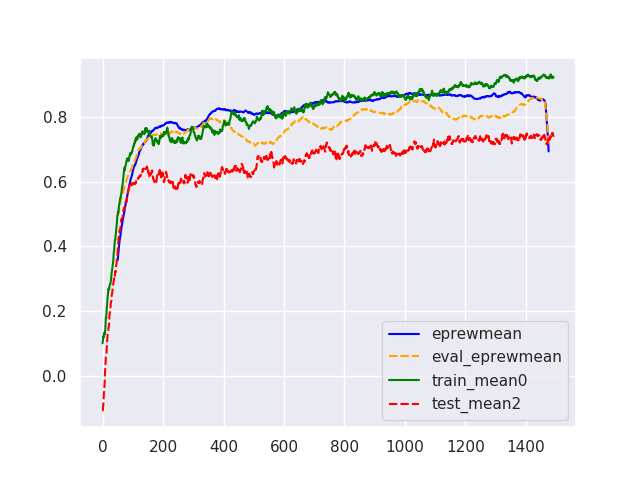
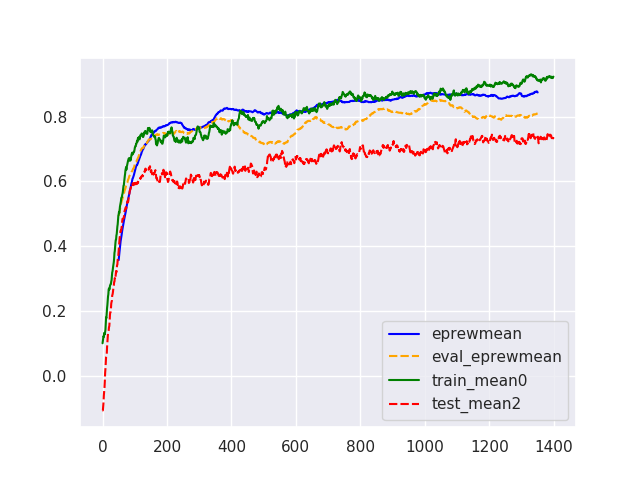
cartpole memes

diff --git a/train_procgen/train.py b/train_procgen/train.py
@@ -29,126 +29,113 @@ def main():
     ent_coef = .01
     gamma = .999
     lam = .95
-    # nsteps = (128 // 8)
     nminibatches = 8
     nsteps = (2048 // nminibatches)
     ppo_epochs = 3
     clip_range = .2
-    timesteps_per_proc = 5_000_000
+    timesteps_per_proc = 1_000_000
     use_vf_clipping = True
     dist_mode = "easy"
+    num_trials = 2
 
-    envs = ["plunder", "fruitbot", "chaser", "leaper", "bossfight", "maze", "coinrun", "caveflyer", "miner", "bigfish", "heist", "climber", "dodgeball", "jumper", "ninja", "starpilot"]
+    for i_trial in range(num_trials):
+        print("STARTING TRIAL", i_trial)
+        env_name = "visual-cartpole"
+        num_frames = 1
 
+        num_test_levels = 10
+        num_levels = 1
+        disc_coeff = 0.
+        LOG_DIR = "/home/josh/w_disc_again" + dist_mode + "/" + env_name + "_disc_coeff_" + str(disc_coeff) + "_num_levels_" + str(num_levels) + "_nsteps_" + str(nsteps) + "_num_frames_" + str(num_frames) + "_num_test_levels_" + str(num_test_levels)
+        LOG_DIR += "_trial_" + str(i_trial)
 
-    # sge = int(os.environ['SGE_TASK_ID'])
-    # if sge in [1, 6, 9, 10]:
-    #     sys.exit()
-    env_name = "visual-cartpole"
-    # env_name = "maze"
-    num_frames = 1
+        test_worker_interval = 0
 
-    # num_test_levels = sge * 10
-    num_test_levels = 1
-    num_levels = 1
-    # disc_coeff = None
-    disc_coeff = 0.1
-    if disc_coeff is None:
-        LOG_DIR = "/home/josh/" + env_name + "/" + env_name + "_disc_coeff_ramping2_num_levels_" + str(num_levels) + "_nsteps_" + str(nsteps)
-    else:
-        LOG_DIR = "/home/josh/w_disc_again" + dist_mode + "/" + env_name + "_disc_coeff_" + str(disc_coeff) + "_num_levels_" + str(num_levels) + "_nsteps_" + str(nsteps) + "_num_frames_" + str(num_frames) + "_num_test_levels_" + str(num_test_levels) + "_moreclipped"
+        comm = MPI.COMM_WORLD
+        rank = comm.Get_rank()
 
-    test_worker_interval = 0
+        is_test_worker = False
 
-    comm = MPI.COMM_WORLD
-    rank = comm.Get_rank()
+        if test_worker_interval > 0:
+            is_test_worker = comm.Get_rank() % test_worker_interval == (test_worker_interval - 1)
 
-    is_test_worker = False
+        mpi_rank_weight = 0 if is_test_worker else 1
 
-    if test_worker_interval > 0:
-        is_test_worker = comm.Get_rank() % test_worker_interval == (test_worker_interval - 1)
+        log_comm = comm.Split(1 if is_test_worker else 0, 0)
+        format_strs = ['csv', 'stdout', 'tensorboard'] if log_comm.Get_rank() == 0 else []
+        logger.configure(dir=LOG_DIR, format_strs=format_strs)
 
-    mpi_rank_weight = 0 if is_test_worker else 1
+        logger.info("creating environment")
 
-    log_comm = comm.Split(1 if is_test_worker else 0, 0)
-    format_strs = ['csv', 'stdout', 'tensorboard'] if log_comm.Get_rank() == 0 else []
-    logger.configure(dir=LOG_DIR, format_strs=format_strs)
-
-    logger.info("creating environment")
-
-    if env_name == "visual-cartpole":
-        venv = gym.vector.make('cartpole-visual-v1', num_envs=num_envs, num_levels=num_levels, start_level=0)
-        venv.observation_space = gym.spaces.Box(low=0, high=255, shape=(64, 64, 3), dtype=np.uint8)
-        venv.action_space = gym.spaces.Discrete(2)
-    else:
-        venv = ProcgenEnv(num_envs=num_envs, env_name=env_name, num_levels=num_levels, start_level=0, distribution_mode=dist_mode)
-        venv = VecExtractDictObs(venv, "rgb")
+        if env_name == "visual-cartpole":
+            venv = gym.vector.make('cartpole-visual-v1', num_envs=num_envs, num_levels=num_levels, start_level=0)
+            venv.observation_space = gym.spaces.Box(low=0, high=255, shape=(64, 64, 3), dtype=np.uint8)
+            venv.action_space = gym.spaces.Discrete(2)
+        else:
+            venv = ProcgenEnv(num_envs=num_envs, env_name=env_name, num_levels=num_levels, start_level=0, distribution_mode=dist_mode)
+            venv = VecExtractDictObs(venv, "rgb")
 
 
-    venv = VecMonitor(
-        venv=venv, filename=None, keep_buf=100,
-    )
+        venv = VecMonitor(
+            venv=venv, filename=None, keep_buf=100,
+        )
 
-    if num_frames > 1:
-        venv = VecFrameStack(venv, num_frames)
+        if num_frames > 1:
+            venv = VecFrameStack(venv, num_frames)
 
-    venv = VecNormalize(venv=venv, ob=False)
+        venv = VecNormalize(venv=venv, ob=False)
 
-    if env_name == "visual-cartpole":
-        test_venv = gym.vector.make('cartpole-visual-v1', num_envs=num_envs, num_levels=100, start_level=1543)
-        test_venv.observation_space = gym.spaces.Box(low=0, high=255, shape=(64, 64, 3), dtype=np.uint8)
-        test_venv.action_space = gym.spaces.Discrete(2)
-    else:
-        test_venv = ProcgenEnv(num_envs=num_envs, env_name=env_name, num_levels=num_test_levels, start_level=1543 + np.random.randint(100), distribution_mode=dist_mode)
-        test_venv = VecExtractDictObs(test_venv, "rgb")
+        if env_name == "visual-cartpole":
+            test_venv = gym.vector.make('cartpole-visual-v1', num_envs=num_envs, num_levels=num_test_levels, start_level=1543 + np.random.randint(100))
+            test_venv.observation_space = gym.spaces.Box(low=0, high=255, shape=(64, 64, 3), dtype=np.uint8)
+            test_venv.action_space = gym.spaces.Discrete(2)
+        else:
+            test_venv = ProcgenEnv(num_envs=num_envs, env_name=env_name, num_levels=num_test_levels, start_level=1543 + np.random.randint(100), distribution_mode=dist_mode)
+            test_venv = VecExtractDictObs(test_venv, "rgb")
 
-    if num_frames > 1:
-        test_venv = VecFrameStack(test_venv, num_frames)
+        if num_frames > 1:
+            test_venv = VecFrameStack(test_venv, num_frames)
 
-    test_venv = VecMonitor(
-        venv=test_venv, filename=None, keep_buf=100,
-    )
-    # test_venv = VecExtractDictObs(test_venv, "rgb")
+        test_venv = VecMonitor(
+            venv=test_venv, filename=None, keep_buf=100,
+        )
+        test_venv = VecNormalize(venv=test_venv, ob=False)
 
-    test_venv = VecNormalize(venv=test_venv, ob=False)
+        logger.info("creating tf session")
+        setup_mpi_gpus()
+        config = tf.ConfigProto()
+        config.gpu_options.allow_growth = True #pylint: disable=E1101
+        sess = tf.Session(config=config)
+        sess.__enter__()
 
-    logger.info("creating tf session")
-    setup_mpi_gpus()
-    config = tf.ConfigProto()
-    config.gpu_options.allow_growth = True #pylint: disable=E1101
-    # config.gpu_options.per_process_gpu_memory_fraction = 0.9
-    sess = tf.Session(config=config)
-    sess.__enter__()
+        conv_fn = lambda x: build_impala_cnn(x, depths=[16,32,32], emb_size=256)
 
-    conv_fn = lambda x: build_impala_cnn(x, depths=[16,32,32], emb_size=256)
-    # conv_fn = lambda x: nature_cnn(x)
-
-    logger.info("training")
-    ppo2.learn(
-        env=venv,
-        network=conv_fn,
-        total_timesteps=timesteps_per_proc,
-        save_interval=0,
-        nsteps=nsteps,
-        nminibatches=nminibatches,
-        lam=lam,
-        gamma=gamma,
-        noptepochs=ppo_epochs,
-        log_interval=1,
-        ent_coef=ent_coef,
-        mpi_rank_weight=mpi_rank_weight,
-        clip_vf=use_vf_clipping,
-        comm=comm,
-        lr=learning_rate,
-        cliprange=clip_range,
-        update_fn=None,
-        init_fn=None,
-        vf_coef=0.5,
-        max_grad_norm=0.5,
-        eval_env=test_venv,
-        num_levels=num_levels,
-        disc_coeff=disc_coeff,
-    )
+        logger.info("training")
+        ppo2.learn(
+            env=venv,
+            network=conv_fn,
+            total_timesteps=timesteps_per_proc,
+            save_interval=0,
+            nsteps=nsteps,
+            nminibatches=nminibatches,
+            lam=lam,
+            gamma=gamma,
+            noptepochs=ppo_epochs,
+            log_interval=1,
+            ent_coef=ent_coef,
+            mpi_rank_weight=mpi_rank_weight,
+            clip_vf=use_vf_clipping,
+            comm=comm,
+            lr=learning_rate,
+            cliprange=clip_range,
+            update_fn=None,
+            init_fn=None,
+            vf_coef=0.5,
+            max_grad_norm=0.5,
+            eval_env=test_venv,
+            num_levels=num_levels,
+            disc_coeff=disc_coeff,
+        )
 
 if __name__ == '__main__':
     main()

diff --git a/plot_grid.py b/plot_grid.py
@@ -86,7 +86,7 @@ def main_sweep2():
             # continue
         procgen_report = "data/procgen_export_data/easy_gen_" + env_name + ".csv"
         try:
-            data = pd.read_csv(f)
+            data = pd.read_csv(f)[:1400]
             data["misc/total_timesteps"] /= 1e6
             reported_data = pd.read_csv(procgen_report)
             # name = f[58:-13]
@@ -105,6 +105,8 @@ def main_sweep2():
             data["eval_eprewmean"] = (data["eval_eprewmean"] - mins[env_name]) / (maxes[env_name] - mins[env_name])
             my_normalized_returns_test.append(data["eval_eprewmean"])
 
+            data = data[:1400]
+            reported_data = reported_data[:1400]
             sns.lineplot(data=data[["eprewmean", "eval_eprewmean"]], palette=['blue', 'orange'])
             reported_data["train_mean0"] = (reported_data["train_mean0"] - mins[env_name]) / (maxes[env_name] - mins[env_name])
             reported_data["test_mean2"] = (reported_data["test_mean2"] - mins[env_name]) / (maxes[env_name] - mins[env_name])
